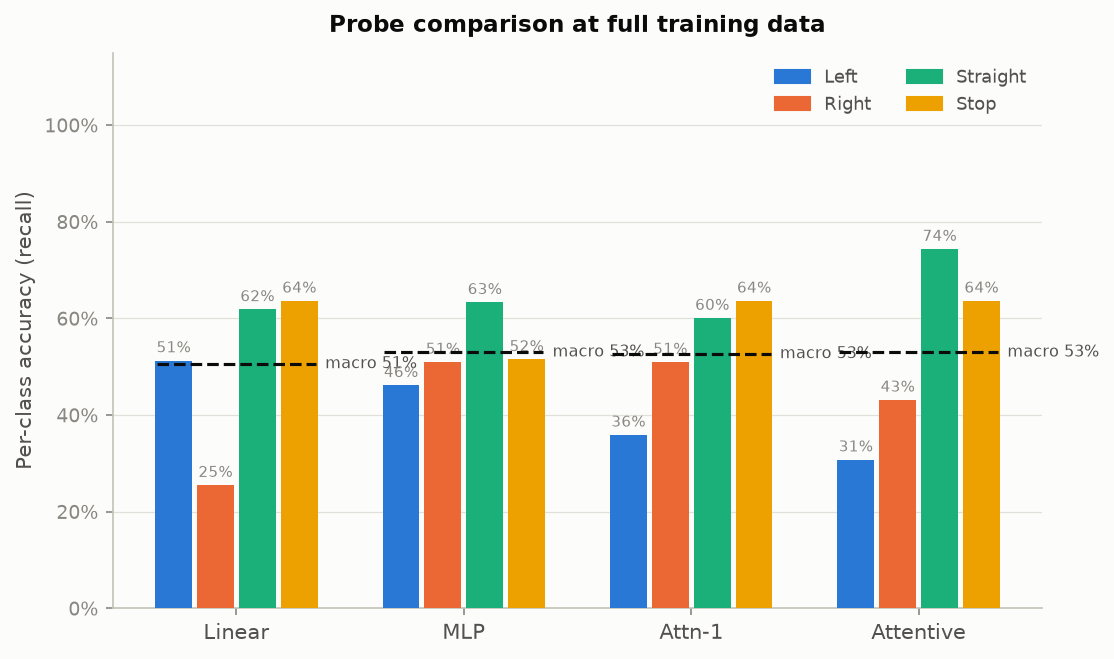
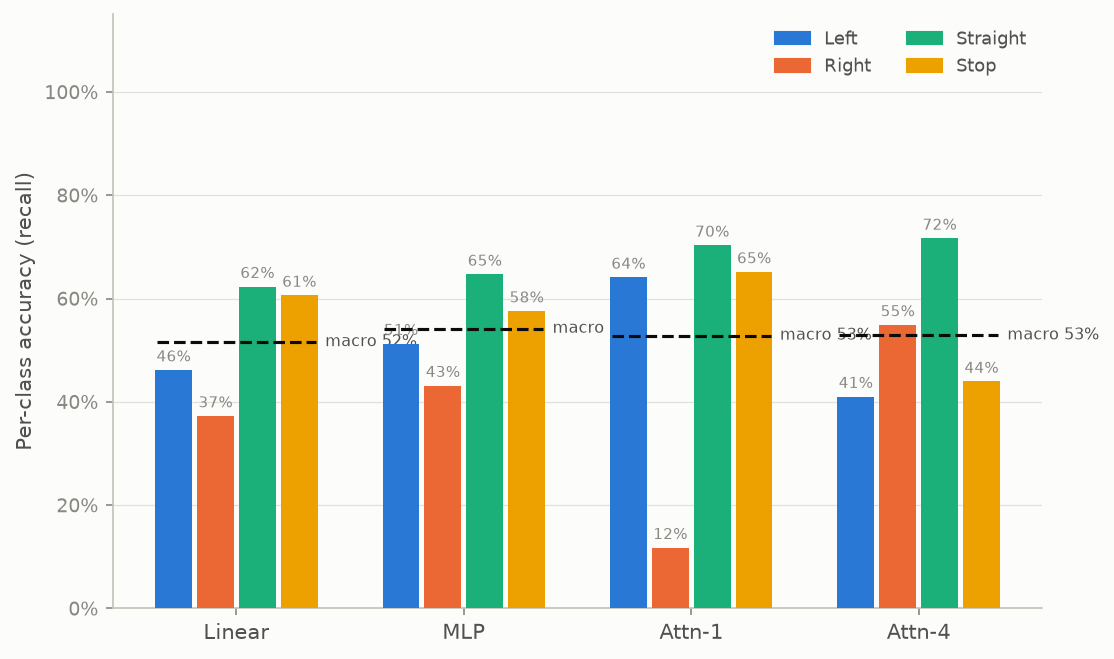
Add results tables, limitations, and split training jobs
- README: headline result with numbers, encoder-only and
  encoder+predictor results tables, notes on checkpoint selection and
  uncertainty, Limitations section, links to gap and predictor figures
- Add gap and predictor figures; update comparison figures
- Replace train_probe.sh with train_probe_encoder.sh and
  train_probe_predictor.sh (as run on Roihu), minus a duplicate
  OUT_DIR/mkdir

diff --git a/README.md b/README.md
@@ -4,10 +4,12 @@ Master's thesis project (Data Science, University of Helsinki, 2026).
 
 Can a frozen video world model anticipate what a cyclist will do at an intersection *before* they do it?
 This repo probes frozen [V-JEPA 2](https://github.com/facebookresearch/vjepa2) ViT-g representations of first-person
-cycling video to classify the upcoming maneuver — **left, right, straight, or stop** — seconds before the cyclist
-reaches the intersection.
+cycling video to classify the upcoming maneuver (**left, right, straight, or stop**) from video ending 15 m before
+the intersection, where manual review of the left, right and stop clips found the maneuver still visually ambiguous.
 
-<!-- TODO: one headline result, e.g. "Best probe reaches X% macro accuracy at a Y s anticipation gap (chance 25%)." -->
+Frozen V-JEPA 2 features anticipate cyclist maneuvers at 51–56 % macro accuracy (chance 25 %). Much of that comes from
+familiarity with the location: the linear probe scores 0.64 at intersections seen in training but 0.43 at unseen ones.
+For attention probes the drop is not significant.
 
 ![Pipeline](results/figures/pipeline.png)
 
@@ -15,11 +17,11 @@ reaches the intersection.
 
 1. **Labeling from GPS.** Ride GPS tracks are matched to OpenStreetMap intersections; the heading change through
    each intersection gives the maneuver label (`detect_intersections.py`).
-2. **Clip extraction.** For each event, a clip is cut from the video ending a fixed anticipation gap before the
-   cyclist crosses the intersection (`extract_clips.py`).
+2. **Clip extraction.** For each event, a 4 s clip is cut from the video ending at the crossing, when the cyclist
+   enters the 15 m intersection radius (`extract_clips.py`).
 3. **Frozen features.** Clips are encoded once with the frozen V-JEPA 2 ViT-g encoder, optionally concatenated with
    the frozen predictor's "imagined" future tokens (`encode_features.py`).
-4. **Probing.** Lightweight probes (linear, MLP, attentive pooler) are trained on the cached features
+4. **Probing.** Lightweight probes (Linear, MLP, Attn-1, Attn-4) are trained on the cached features
    (`train_probe.py`), evaluated on held-out sessions (`eval_probe.py`).
 
 Evaluation uses **macro-averaged accuracy** (mean per-class recall): the validation set is ~80% `straight`, so plain
@@ -30,12 +32,56 @@ accuracy would reward a constant predictor.
 | Experiment | Figure |
 |---|---|
 | Probe architecture comparison | [`results/figures/comparison/`](results/figures/comparison) |
-| Encoder vs. encoder + predictor | [`results/figures/probes/`](results/figures/probes) (`pred_*` = with predictor) |
-| Data scaling (25 / 50 / 75 / 100 %) | `results/figures/probes/*_f0.*` |
-| Accuracy vs. anticipation gap | `results/figures/probes/*/gap_analysis.png` |
+| Encoder vs. encoder + predictor | [`results/figures/predictor/`](results/figures/predictor); per-probe details in [`results/figures/probes/`](results/figures/probes) (`pred_*` = with predictor) |
+| Data scaling (25 / 50 / 75 / 100 %) | [`results/figures/comparison/heatmap.png`](results/figures/comparison/heatmap.png), `results/figures/probes/*_f0.*` |
+| Accuracy vs. anticipation gap | [`results/figures/gap/`](results/figures/gap); per-probe `results/figures/probes/*/gap_analysis.png` |
 | Seen vs. unseen intersections | [`results/figures/geo/`](results/figures/geo), [`results/tables/seen_unseen_accuracy.csv`](results/tables/seen_unseen_accuracy.csv) |
 
-<!-- TODO: results table with macro accuracy per probe -->
+**Encoder-only features:**
+
+| Probe | left | right | straight | stop | **Macro** | Best epoch |
+|---|---|---|---|---|---|---|
+| Linear | 0.462 | 0.373 | 0.623 | 0.606 | **0.516** | 27 |
+| MLP | 0.513 | 0.431 | 0.647 | 0.576 | **0.542** | 28 |
+| Attn-1 | 0.641 | 0.118 | 0.703 | 0.652 | **0.528** | 10 |
+| Attn-4 | 0.410 | 0.549 | 0.717 | 0.439 | **0.529** | 5 |
+
+**Encoder + predictor features:**
+
+| Probe | left | right | straight | stop | **Macro** | Best epoch |
+|---|---|---|---|---|---|---|
+| Linear | 0.410 | 0.333 | 0.625 | 0.667 | **0.509** | 31 |
+| MLP | 0.590 | 0.255 | 0.589 | 0.682 | **0.529** | 36 |
+| Attn-1 | 0.718 | 0.275 | 0.652 | 0.409 | **0.513** | 8 |
+| Attn-4 | 0.564 | 0.529 | 0.564 | 0.576 | **0.558** | 5 |
+
+Per-class values are recall on the 10 validation sessions; chance macro accuracy is 0.25. Attn-1 / Attn-4 are
+attentive poolers with 1 / 4 transformer blocks.
+
+- **Checkpoint selection:** the reported checkpoint is the epoch with the highest validation macro accuracy. There is
+  no separate test set, so these figures are mildly optimistic.
+- **Uncertainty:** differences between probes, and between encoder-only and encoder + predictor features, are within
+  noise at this validation-set size. The tables do not establish a ranking.
+
+## Limitations
+
+- **Location familiarity.** The split is by session, not by location, so 51 % of validation events are at
+  intersections that also appear in training. Direct overlap is rare: only 5–14 % of left, right and stop validation
+  events have a training example at the same intersection, from the same approach direction, with the same maneuver.
+  Yet Linear and MLP probes score 0.22 and 0.20 lower macro accuracy at unseen intersections, and the drop is
+  almost entirely in the minority classes. The effect is broader than memorising "this approach means this maneuver"; the
+  probes benefit from general familiarity with a location, so validation numbers overstate performance at new
+  places. For attention probes the drop is not significant. A geographically grouped evaluation has not been run
+  ([`results/figures/geo/`](results/figures/geo), [`seen_unseen_accuracy.csv`](results/tables/seen_unseen_accuracy.csv)).
+- **Scene vs. motion.** It is not yet established whether the probes use the cyclist's movement or static scene
+  cues such as intersection layout. The control experiment (encoding only the final frame) has not been run.
+- **Label definitions.** Stop is a movement state while left, right and straight are directions. Stop takes
+  precedence: a cyclist who stops and then turns is labelled stop, so part of the stop/turn confusion is
+  definitional.
+- **Anticipation gap.** GPS runs at 1 Hz, so gaps are whole seconds. Clips end at a fixed distance from the
+  intersection, so the time gap is confounded with approach speed, and its distribution differs by class.
+  Per-gap results ([`results/figures/gap/`](results/figures/gap)) should be read with that in mind.
+
 
 ## Repository layout
 
